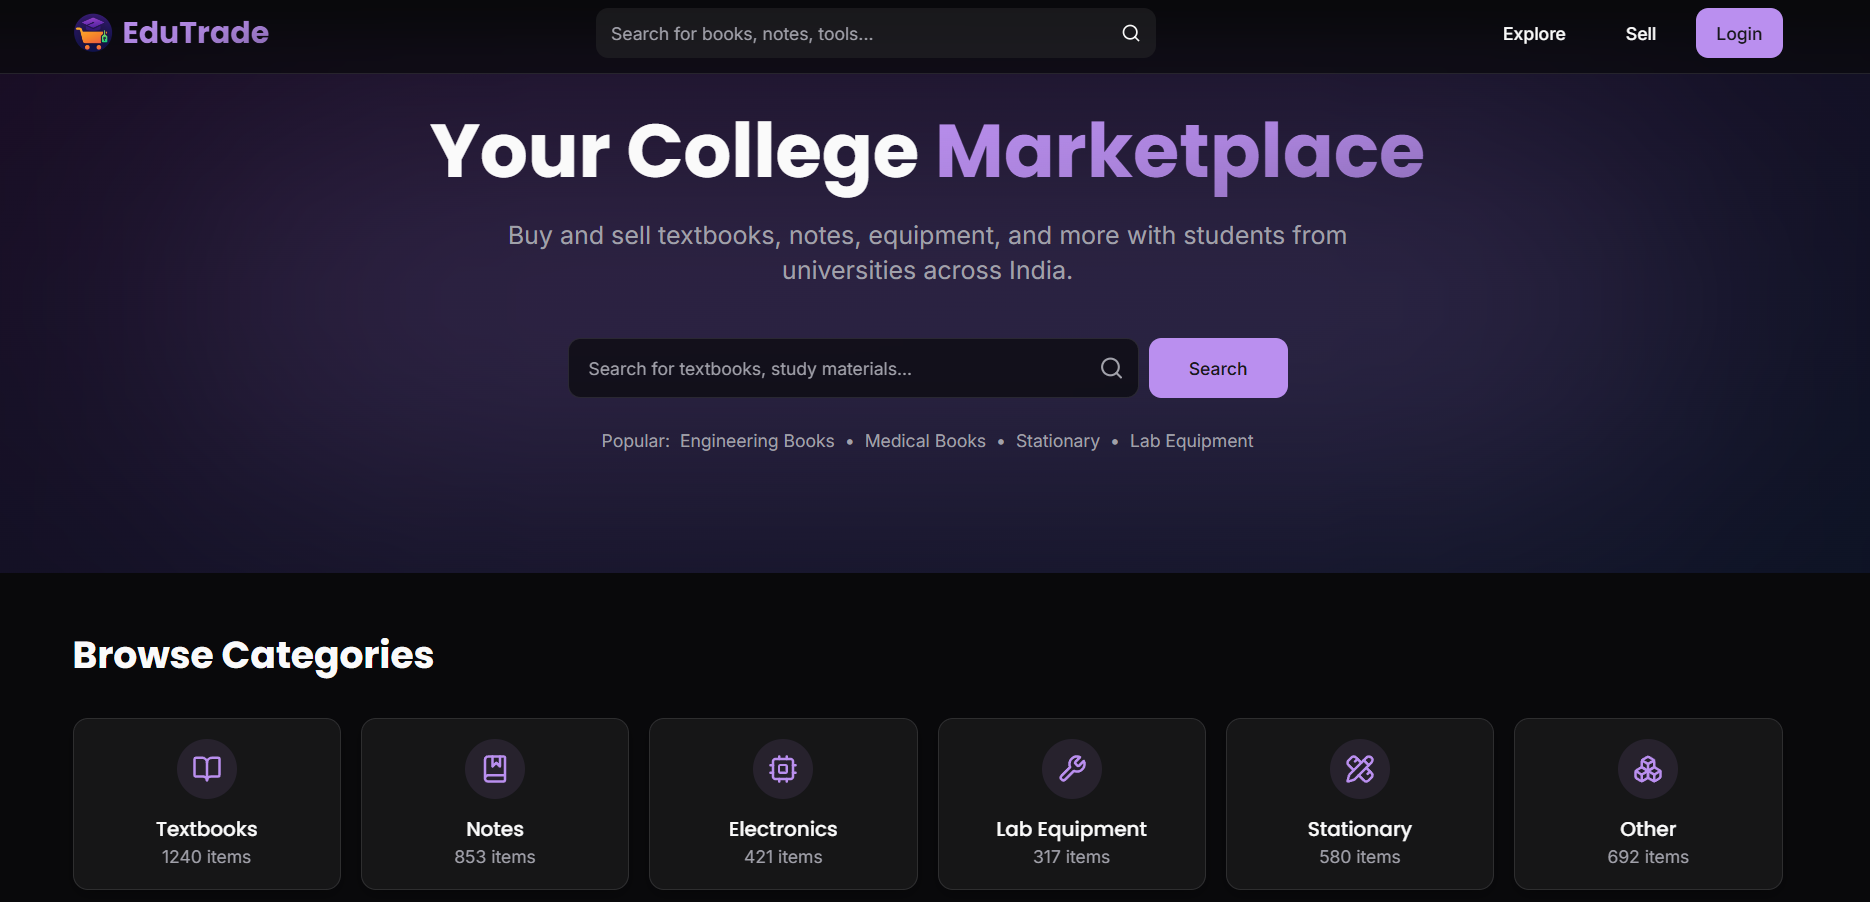
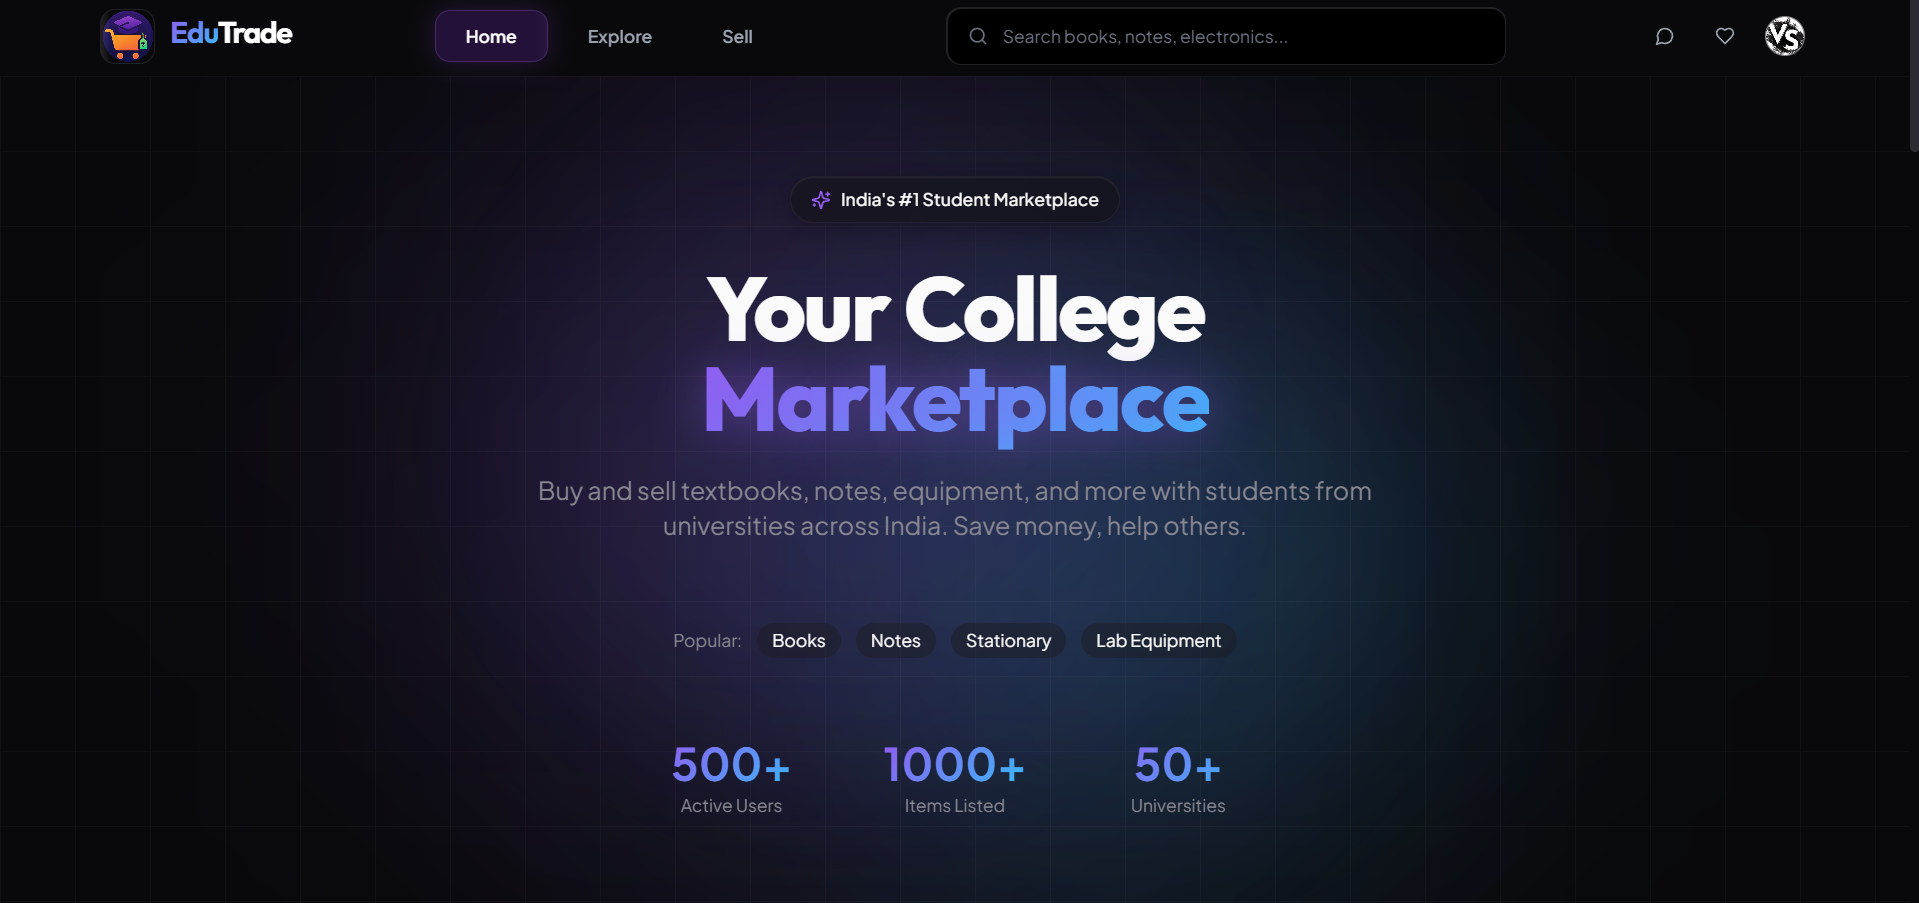
Update splash screen, Hero, About, and Projects sections with new content and UI improvements

diff --git a/src/components/ProjectsShowcase.tsx b/src/components/ProjectsShowcase.tsx
@@ -10,7 +10,7 @@ const projects = [
     id: 1,
     title: "TaskFlow",
     description:
-      "TaskFlow is a powerful productivity and task management platform built for focus and efficiency. It features smart filtering, Pomodoro timers, real-time updates, and adaptive Light/Dark UI for seamless organization. With full PWA (Progressive Web App) support, TaskFlow works offline and can be installed like a native app — keeping users productive anytime, anywhere.",
+      "TaskFlow is a productivity app that helps users manage tasks efficiently. It features smart filtering, Pomodoro timers, and real-time updates, with offline PWA support for uninterrupted workflow. Stay focused, organized, and productive anytime, anywhere.",
     tech: [
       "React.js",
       "TypeScript",
@@ -28,9 +28,10 @@ const projects = [
     id: 2,
     title: "OmniAI",
     description:
-      "OmniAI is an AI-powered content creation platform that integrates Google Gemini API to assist users in writing articles, generating blog titles, and optimizing resumes. It offers a personalized dashboard and real-time AI responses for a smooth workflow. Built for creators and professionals, OmniAI blends the power of AI with intuitive design to simplify content generation and productivity.",
+      "OmniAI is an AI-powered content creation platform that assists in writing articles, generating blog titles, and optimizing resumes using Google Gemini API. With real-time AI suggestions and a personalized dashboard, it streamlines content creation for creators and professionals.",
     tech: [
       "React.js",
+      "JavaScript",
       "Tailwind CSS",
       "Node.js",
       "Express",
@@ -46,7 +47,7 @@ const projects = [
     id: 3,
     title: "CollabX",
     description:
-      "CollabX is a next-gen collaboration hub that connects brands with influencers and content creators for paid partnerships, campaigns, and affiliate deals. It simplifies discovery, communication, and deal management through a clean, dynamic interface. Designed for both creators and brands, CollabX bridges the gap between opportunity and talent in the digital creator economy.",
+      "CollabX is a collaboration platform connecting brands with influencers for partnerships and campaigns. It simplifies discovery, communication, and deal management through an intuitive interface, bridging the gap between opportunity and talent in the creator economy.",
     tech: [
       "React.js",
       "TypeScript",
@@ -65,7 +66,7 @@ const projects = [
     id: 4,
     title: "EduTrade",
     description:
-      "EduTrade is an e-commerce platform tailored for college and university students to buy and sell textbooks, notes, and academic resources. It connects students across campuses, promoting a sustainable exchange ecosystem. With secure authentication, intuitive listings, and chat integration, EduTrade makes academic trading simple, safe, and efficient.",
+      "EduTrade is an e-commerce platform for students to buy and sell textbooks, notes, and academic resources. With secure authentication, chat integration, and intuitive listings, it creates a safe, efficient, and sustainable academic trading ecosystem.",
     tech: [
       "React.js",
       "TypeScript",
@@ -73,12 +74,13 @@ const projects = [
       "Node.js",
       "Express",
       "MongoDB",
+      "Socket.io",
       "ImageKit",
     ],
     image: edutradeImg,
     gradient: "from-indigo-500 to-purple-600",
-    github: "#",
-    live: "#",
+    github: "https://github.com/Vikas-Sharma04/EduTrade",
+    live: "https://edutrade-vs.vercel.app/",
   },
 ];
 

diff --git a/src/components/About.tsx b/src/components/About.tsx
@@ -3,28 +3,27 @@ import { Code2, Rocket, Heart, Sparkles } from "lucide-react";
 
 const About = () => {
   const highlights = [
-    {
-      icon: Code2,
-      title: "Full-Stack Developer",
-      description: "Building modern web apps with scalable architecture",
-    },
-    {
-      icon: Rocket,
-      title: "Problem Solver",
-      description: "Strong DSA and algorithm skills for efficient solutions",
-    },
-    {
-      icon: Heart,
-      title: "Passionate Coder",
-      description:
-        "Writing clean, maintainable code across web and ML projects",
-    },
-    {
-      icon: Sparkles,
-      title: "Innovation Driven",
-      description: "Exploring cutting-edge tech including ML, AI, and cloud",
-    },
-  ];
+  {
+    icon: Code2,
+    title: "Full-Stack Developer",
+    description: "Building modern web apps with scalable, production-ready architecture",
+  },
+  {
+    icon: Rocket,
+    title: "Problem Solver",
+    description: "Designing efficient, scalable solutions to complex problems",
+  },
+  {
+    icon: Heart,
+    title: "Passionate Coder",
+    description: "Crafting maintainable, production-ready code for web and AI projects",
+  },
+  {
+    icon: Sparkles,
+    title: "Innovation Driven",
+    description: "Leveraging AI, ML, and cloud technologies to build impactful solutions",
+  },
+];
 
   return (
     <section className="py-32 relative">
@@ -81,11 +80,7 @@ const About = () => {
           className="mt-16 max-w-3xl mx-auto text-center"
         >
           <p className="text-lg text-muted-foreground leading-relaxed">
-            With a solid foundation in frontend and backend development, I bring
-            ideas to life through clean code, intuitive design, and seamless
-            user experiences. Outside of coding, I explore new technologies,
-            contribute to open-source projects, and stay updated on the latest
-            trends in web development and AI.
+            With a strong foundation in frontend and backend development, I build scalable, production-ready applications that solve real-world problems efficiently. Outside of coding, I explore new technologies, contribute to open-source projects, and stay ahead of trends in web development and AI.
           </p>
         </motion.div>
       </div>

diff --git a/src/components/Hero.tsx b/src/components/Hero.tsx
@@ -40,11 +40,10 @@ const Hero = () => {
   }, []);
 
   const typingTexts = [
-    "I am Vikas Sharma — Developer. Creator. Innovator. ✨",
-    "Full Stack Developer 💻",
-    "Machine Learning Enthusiast 🤖",
-    "Problem Solver & DSA Explorer 🧩",
-    "Passionate Coder turning ideas into reality 🚀",
+    "Hi, I'm Vikas Sharma 👋",
+    "Full-Stack & AI Engineer building scalable systems 🤖",
+    "I help turn complex ideas into reliable software 💻",
+    "I design, build, and ship production-ready products 🚀",
   ];
 
   const scrollToNext = () => {
@@ -171,19 +170,19 @@ const Hero = () => {
             <br />
             <span className="ml-4 text-primary">role:</span>{" "}
             <span className="text-yellow-400">
-              "Full-Stack Developer & AI/ML Enthusiast"
+              "Full-Stack & AI Engineer"
             </span>
             ,
             <br />
-            <span className="ml-4 text-primary">passion:</span>{" "}
+            <span className="ml-4 text-primary">focus:</span>{" "}
             <span className="text-yellow-400">
-              "Building scalable web apps and solving real-world problems"
+              "Designing and building scalable, production-ready systems"
             </span>
             ,
             <br />
             <span className="ml-4 text-primary">expertise:</span>{" "}
             <span className="text-yellow-400">
-              ["Full-Stack Development", "DevOps", "DSA", "AI/ML"]
+              ["Full-Stack Development", "AI/ML Systems", "System Design"]
             </span>
             <br />
             <span className="text-muted-foreground">{"}"}</span>;
@@ -219,7 +218,7 @@ const Hero = () => {
           >
             <span className="relative z-10 flex items-center gap-2">
               <Mail className="w-5 h-5 group-hover:rotate-12 transition-transform duration-300" />
-              Get In Touch
+              Let’s Build Something
             </span>
           </motion.button>
 

diff --git a/src/components/SkillsConstellation.tsx b/src/components/SkillsConstellation.tsx
@@ -13,72 +13,35 @@ const skillsData = [
   },
   {
     category: "Frontend",
-    skills: [
-      "HTML",
-      "CSS",
-      "Tailwind CSS",
-      "Bootstrap",
-      "React.js",
-      "Next.js",
-      "Framer Motion",
-      "GSAP",
-      "Three.js",
-    ],
+    skills: ["React.js", "Next.js", "Redux Toolkit", "Tailwind CSS", "Three.js", "GSAP", "Framer Motion"],
     color: "secondary",
   },
   {
     category: "Backend",
-    skills: [
-      "Node.js",
-      "Express.js",
-      "Flask",
-      "Django",
-      "REST APIs",
-      "Socket.io",
-    ],
+    skills: ["Node.js", "Express.js", "FastAPI", "Flask", "Socket.io", "Auth (JWT, OAuth2)", "REST APIs"],
     color: "accent",
   },
   {
     category: "Databases",
-    skills: [
-      "MySQL",
-      "PostgreSQL",
-      "SQLite",
-      "MongoDB",
-      "Redis",
-      "Firebase",
-      "Supabase",
-    ],
+    skills: ["PostgreSQL", "MongoDB", "MySQL", "Redis", "Firebase", "Supabase"],
     color: "primary",
   },
   {
-    category: "Data Science & ML",
+    category: "AI & Data Science",
     skills: [
-      "Data Analysis / EDA",
-      "Feature Engineering",
-      "Machine Learning (ML)",
-      "Deep Learning (DL)",
-      "Natural Language Processing (NLP)",
+      "ML (Scikit-Learn, XGBoost)",
+      "DL (TensorFlow, PyTorch)",
+      "NLP (spaCy, Transformers)",
       "Time Series Analysis",
-      "Model Evaluation",
-      "Data Visualization",
+      "LLMs & Prompt Engineering",
+      "Statistical Modeling",
+      "Deployment (FastAPI, Docker)"
     ],
     color: "secondary",
   },
   {
     category: "Tools & Platforms",
-    skills: [
-      "Git / GitHub",
-      "VS Code",
-      "Postman",
-      "Jupyter",
-      "Anaconda",
-      "Docker",
-      "Vercel",
-      "Netlify",
-      "Render",
-      "Heroku",
-    ],
+    skills: ["Git & GitHub", "Docker", "Postman", "Jupyter / Anaconda", "Vercel / Netlify / Render", "Linux / Bash"],
     color: "accent",
   },
 ];

diff --git a/src/components/SplashScreen.tsx b/src/components/SplashScreen.tsx
@@ -11,7 +11,7 @@ const SplashScreen: React.FC<SplashScreenProps> = ({ onFinish }) => {
   const [show, setShow] = useState(true);
 
   useEffect(() => {
-    const splashDuration = 10000; // total splash duration
+    const splashDuration = 3000; // total splash duration
     const timer = setTimeout(() => {
       // trigger fade-out
       setShow(false);
@@ -60,11 +60,9 @@ const SplashScreen: React.FC<SplashScreenProps> = ({ onFinish }) => {
           {/* Typing Effect */}
           <TypingEffect
             texts={[
-              "Crafting code into experiences...",
-              "Building ideas into reality...",
-              "Welcome to the VS-Verse 🚀",
+              "Welcome to the VS-Verse — Code. Create. Innovate. 🚀",
             ]}
-            speed={60}
+            speed={50}
             deleteSpeed={45}
             pauseDuration={300}
             className="text-white text-4xl text-center"
